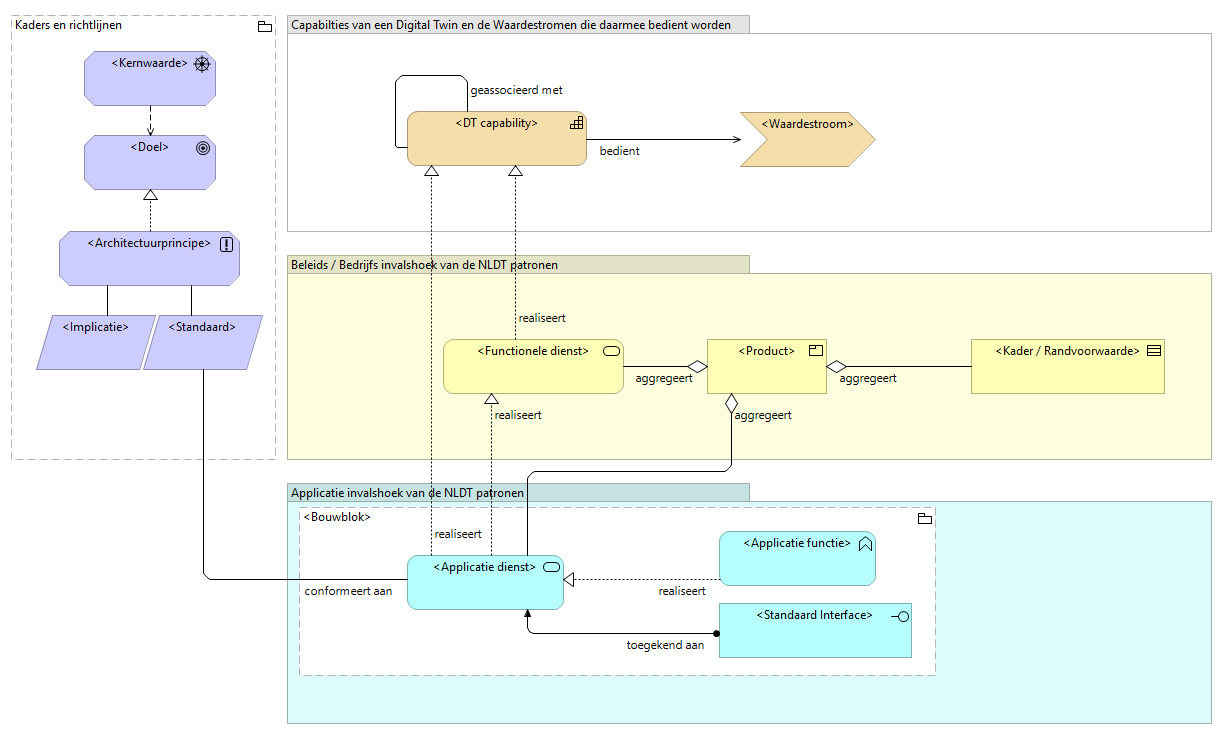
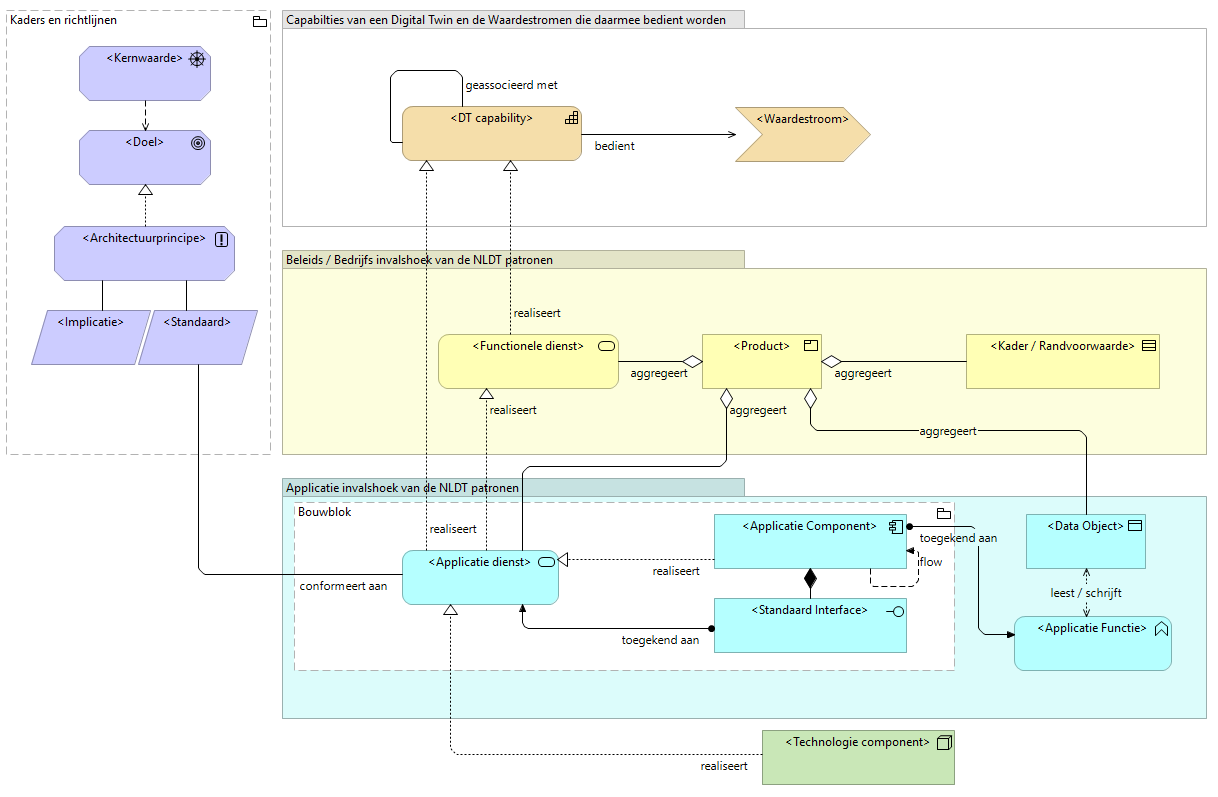
v0.8.3

diff --git a/en/respec/js/document_config.js b/en/respec/js/document_config.js
@@ -12,7 +12,7 @@ var documentConfig =
   //   "https://docs.geostandaarden.nl/nldt-architectuur/en"
   // ],
   publishDate: "2026-02-10",
-  publishVersion: "0.8.2",
+  publishVersion: "0.8.3",
   thisVersion: [
     "https://geonovum.github.io/NLDT-Architectuur/en/"
   ],

diff --git a/respec/js/document_config.js b/respec/js/document_config.js
@@ -12,7 +12,7 @@ var documentConfig =
   //   "https://docs.geostandaarden.nl/nldt-architectuur/"
   // ],
   publishDate: "2026-02-10",
-  publishVersion: "0.8.2",
+  publishVersion: "0.8.3",
   thisVersion: [
     "https://geonovum.github.io/NLDT-Architectuur/"
   ],

diff --git a/en/respec/H6-buildingblocks.md b/en/respec/H6-buildingblocks.md
@@ -17,6 +17,8 @@ The developments of Digital Twins and Dataspaces are closely linked. On the one 
 
 This leads to patterns that support both specific dataspace standards and generic standards.
 
+<img src="./respec/media/cde-ldt-en.png" alt="ldt as a building block on top of a common data environment" width="700">
+
 ## Foundation
 
 The foundation consists of the necessary basic infrastructure and catalog functionality.

diff --git a/respec/H6-bouwblokken.md b/respec/H6-bouwblokken.md
@@ -18,6 +18,8 @@ Aan de ene kant zijn Digitale Tweelingen afnemers van diensten van Dataspaces, a
 
 Dit leidt tot patronen die zowel specifieke dataspace standaarden ondersteunen, als generieke standaarden.
 
+<img src="./respec/media/cde-ldt.png" alt="ldt als bouwsteen op een dataomgeving" width="700">
+
 ## Fundament
 
 Het fundament bestaat uit de benodigde basis infrastructuur en catalogus functionaliteit.

diff --git a/respec/versiemanagement.md b/respec/versiemanagement.md
@@ -19,3 +19,7 @@ __0.8.1__
 __0.8.2__
 
 - 4 nieuwe capabilities geintroduceerd en alle capability beschrijvingen geactualiseerd
+
+__0.8.3__
+
+- toevoeging van de relatie dataomgeving - LDT

diff --git a/en/respec/versionmanagement.md b/en/respec/versionmanagement.md
@@ -20,3 +20,7 @@ __0.8.1__
 __0.8.2__
 
 - update of capabilities with 4 new capabilities and updated descriptions.
+
+__0.8.3__
+
+- addition of the CDE - LDT relation.
